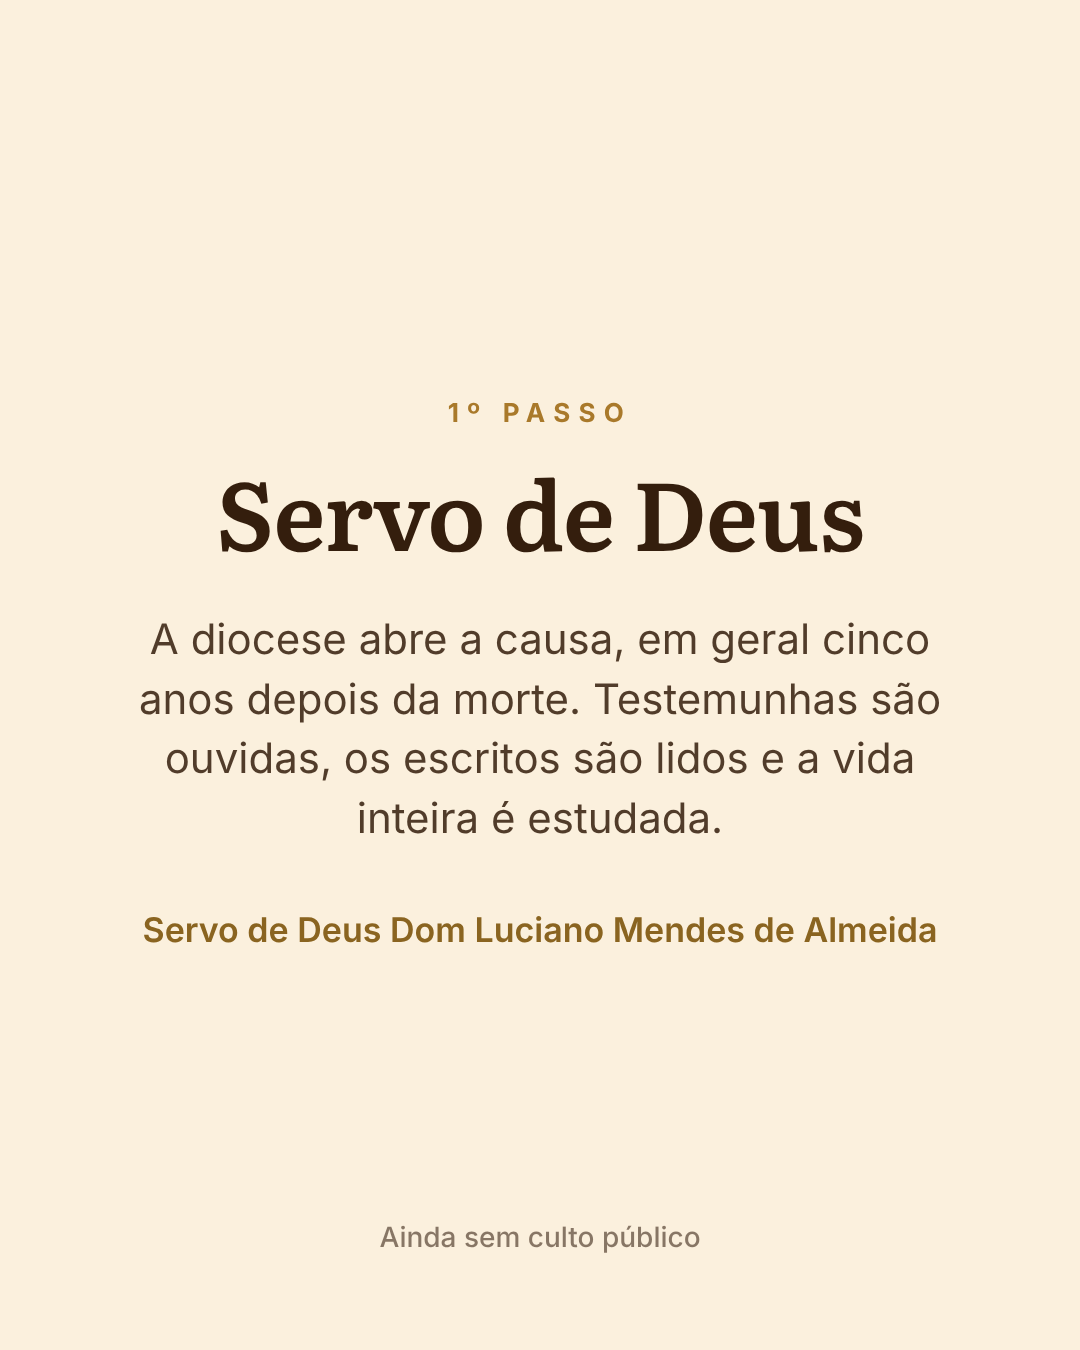
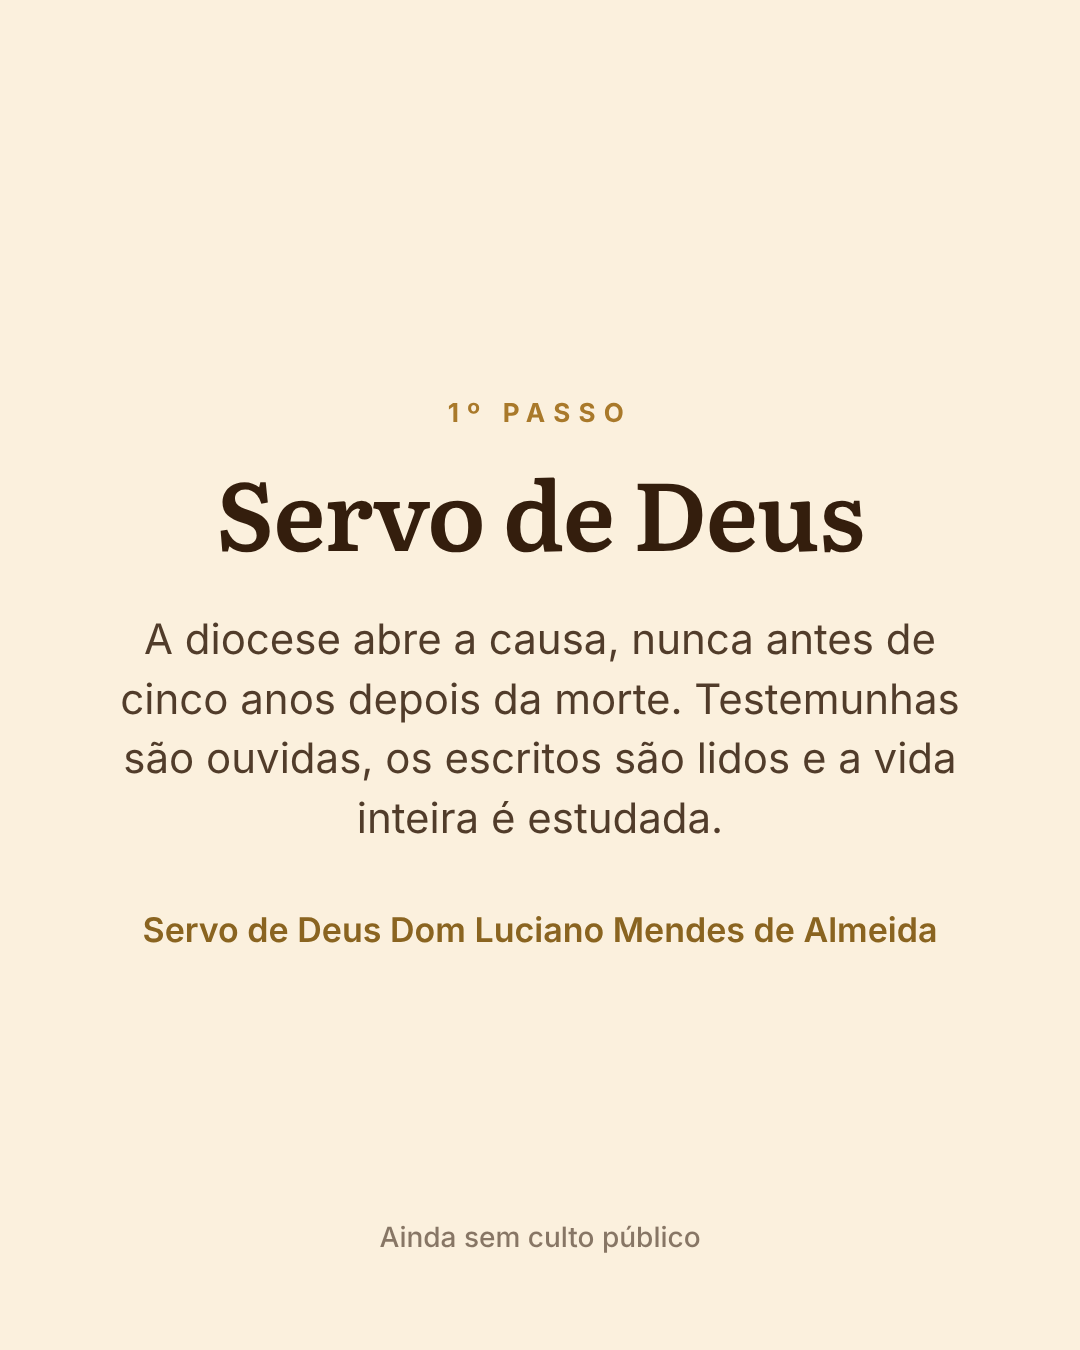
Instagram: post dos títulos dos santos revisado (doutrina e texto) e rotina de 3 posts por dia
Claude-Session: https://claude.ai/code/session_01KkDATWAAHk8rZXQWk2D87j

Changed region(s): [[0.1222, 0.4667, 0.8861, 0.5911]]

diff --git a/docs/marca/instagram/FILA.md b/docs/marca/instagram/FILA.md
@@ -2,7 +2,7 @@
 
 O dono pede um por vez, na hora de postar. Cada pasta tem as lâminas (01.png...) e a `legenda.txt`.
 
-Posts 1 a 5 são sobre o app (pedido do dono, 14/11/2026). Post 1 (apresentação) publicado em 13/11; Bíblia publicado em 14/11; Missas (refeito, 9 lâminas) em 15/11; Terço em 16/11; Orações em 17/11.
+Posts 1 a 5 são sobre o app (pedido do dono, 14/11/2026). Post 1 (apresentação) publicado em 13/11; Bíblia publicado em 14/11; Missas (refeito, 9 lâminas) em 15/11; Terço em 16/11; Orações em 17/11; Títulos dos santos em 18/11.
 
 Ordem combinada com o dono em 15/11/2026: primeiro a apresentação do app, em sequência no feed (quem chega ao perfil vê um recurso por post), depois as campanhas.
 
@@ -11,11 +11,14 @@ Ordem combinada com o dono em 15/11/2026: primeiro a apresentação do app, em s
 3. `post-missas/` (15/11) · publicado
 4. `post-terco/` (16/11) · publicado
 5. `post-oracoes/` (17/11, revisado: capa sem "da tradição", santos beatos e veneráveis, Ladainha de Nossa Senhora) · publicado
-6. `post-titulos-dos-santos/` · pronto
+6. `post-titulos-dos-santos/` (18/11, revisado: "nunca antes de cinco anos", "em regra" no segundo milagre, Lindalva mártir, títulos dos brasileiros conferidos) · publicado
 7. Novembro: rezar por quem partiu (`plano-lancamento.md`, post 5) · a fazer
 8. Como pôr o app na tela do celular (`plano-lancamento.md`, post 8) · a fazer
 9. O Advento começa amanhã (`plano-lancamento.md`, post 9; sáb 28/11) · a fazer
-Depois do Advento: Evangelho do dia e Santo do dia, pela tela Divulgação do app.
+## Rotina diária a partir de 19/11/2026 (decisão do dono, 18/11): 3 posts no feed por dia
+- **Manhã: santos do dia.** Pela tela Divulgação do app (Mais > Painel > Divulgação), "Post" de cada santo do dia; se houver mais de um, vão juntos num carrossel. "Story" de cada um nos stories.
+- **Meio-dia: Evangelho do dia.** Divulgação, "Post" do Evangelho no feed e "Story" nos stories.
+- **Fim da tarde: o post do dia criado no chat**, um por vez, nesta fila (itens 7 em diante), sempre revisado por especialistas (doutrina e texto) antes de ir ao ar.
 
 Fora da fila: `post2-novena-apresentacao/` (o dono achou fora de hora).
 
